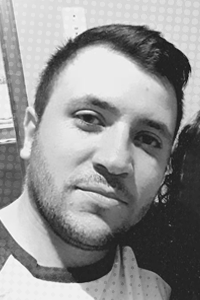
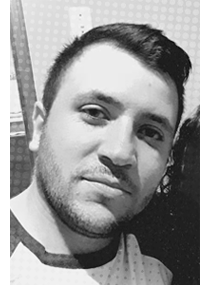
ajustando imagem de perfil

diff --git a/css/style.css b/css/style.css
@@ -3,6 +3,7 @@
     --azul: #64FFFA;
     --cinza: #707070;
     --cinza-hover: #868686;
+    --cinza-bg: #b4b4b4;
     --cinza-opened-card: #dfdfdf;
 }
 
@@ -333,7 +334,23 @@
 }
 
 .foto-perfil{
-    margin-bottom: 20px;
+    background-color: var(--azul);
+}
+
+.foto-perfil img{
+    width: 100%;
+}
+
+.name{
+    width: 200px;
+    height: 56px;
+    padding-top: 10px;
+    background-color: var(--cinza);
+}
+
+.name p{
+    padding-left: 10px;
+    color: white;
 }
 
 .skills{
@@ -341,14 +358,15 @@
 }
 
 .skills h3{
+    max-height: 26px;
     font-size: 30px;
-    margin-bottom: 30px;
-    padding-left: 20px;
+    margin-bottom: 20px;
+    padding-left: 10px;
     background-color: var(--azul);
 }
 
 .skill-item{
-    margin-top: 15px;
+    margin-top: 20px;
     width: 100%;
     padding: 10px;
     border-radius: 5px;
@@ -376,18 +394,22 @@
 }
 
 .msg-group{
-    margin-top: 60px;
+    margin-top: 40px;
 }
 
 .msg-group h3{
+    max-height: 26px;
     font-size: 30px;
     margin-bottom: 20px;
-    padding-left: 20px;
+    padding-left: 10px;
     background-color: var(--azul);
 }
 
 .msg-card{
-    padding: 20px;
+    padding-left: 10px;
+    padding-right: 10px;
+    padding-top: 20px;
+    padding-bottom: 20px;
     background-color: var(--cinza-opened-card);
     margin-bottom: 20px;
     border-radius: 5px;
@@ -420,6 +442,7 @@
 .resumo .presentation{
     font-weight: 300;
     background-color: #dfdfdf;
+    border-bottom: solid 20px var(--azul);
     border-radius: 5px;
     padding-left: 20px;
     padding-right: 20px;

diff --git a/index.html b/index.html
@@ -5,7 +5,7 @@
     <meta http-equiv="X-UA-Compatible" content="IE=edge">
     <meta name="viewport" content="width=device-width, initial-scale=1.0">
     <title>Portfólio | Guilherme Nogueira</title>
-    <link rel="icon" href="/img/icones/favicon_logo.ico" type="image/x-icon">
+    <link rel="shortcut icon" href="/img/icones/favicon_logo.ico" type="image/x-icon">
     <link rel="stylesheet" href="css/style.css" type="text/css">
     <link rel="stylesheet" href="css/responsive.css" type="text/css">
     <link rel="preconnect" href="https://fonts.googleapis.com">
@@ -70,7 +70,17 @@
 
     <section class="sobre-page">
         <div class="perfil">
-            <img src="img/perfil/Perfil.png" alt="" class="foto-perfil">
+            <div class="foto-perfil">
+                <img src="img/perfil/Perfil.png">
+                <div class="name">
+                    <p>
+                        Guilherme Nogueira
+                    </p>
+                    <p style="font-style: italic; font-weight: 300;">
+                        Visual Designer
+                    </p>
+                </div>
+            </div>            
             <div class="skills">
                 <h3 style="font-style: italic;">Skills</h3>
                 <div class="skill-item">

diff --git a/css/responsive.css b/css/responsive.css
@@ -57,8 +57,8 @@
     }
 
     .perfil{
-        width: 100%;
-        max-width: 100%;
+        width: 60%;
+        max-width: 60%;
         margin-bottom: 50px;
     }
 
@@ -67,8 +67,17 @@
         max-width: 100%;
     }
 
+    .name{
+        width: 100%;
+        padding-left: 5px;
+    }
+
     .resumo{
         margin-left: 0px;
+    }
+
+    .resumo .presentation{
+        width: 60%;
     }
 
     @keyframes resumo_slidein {
